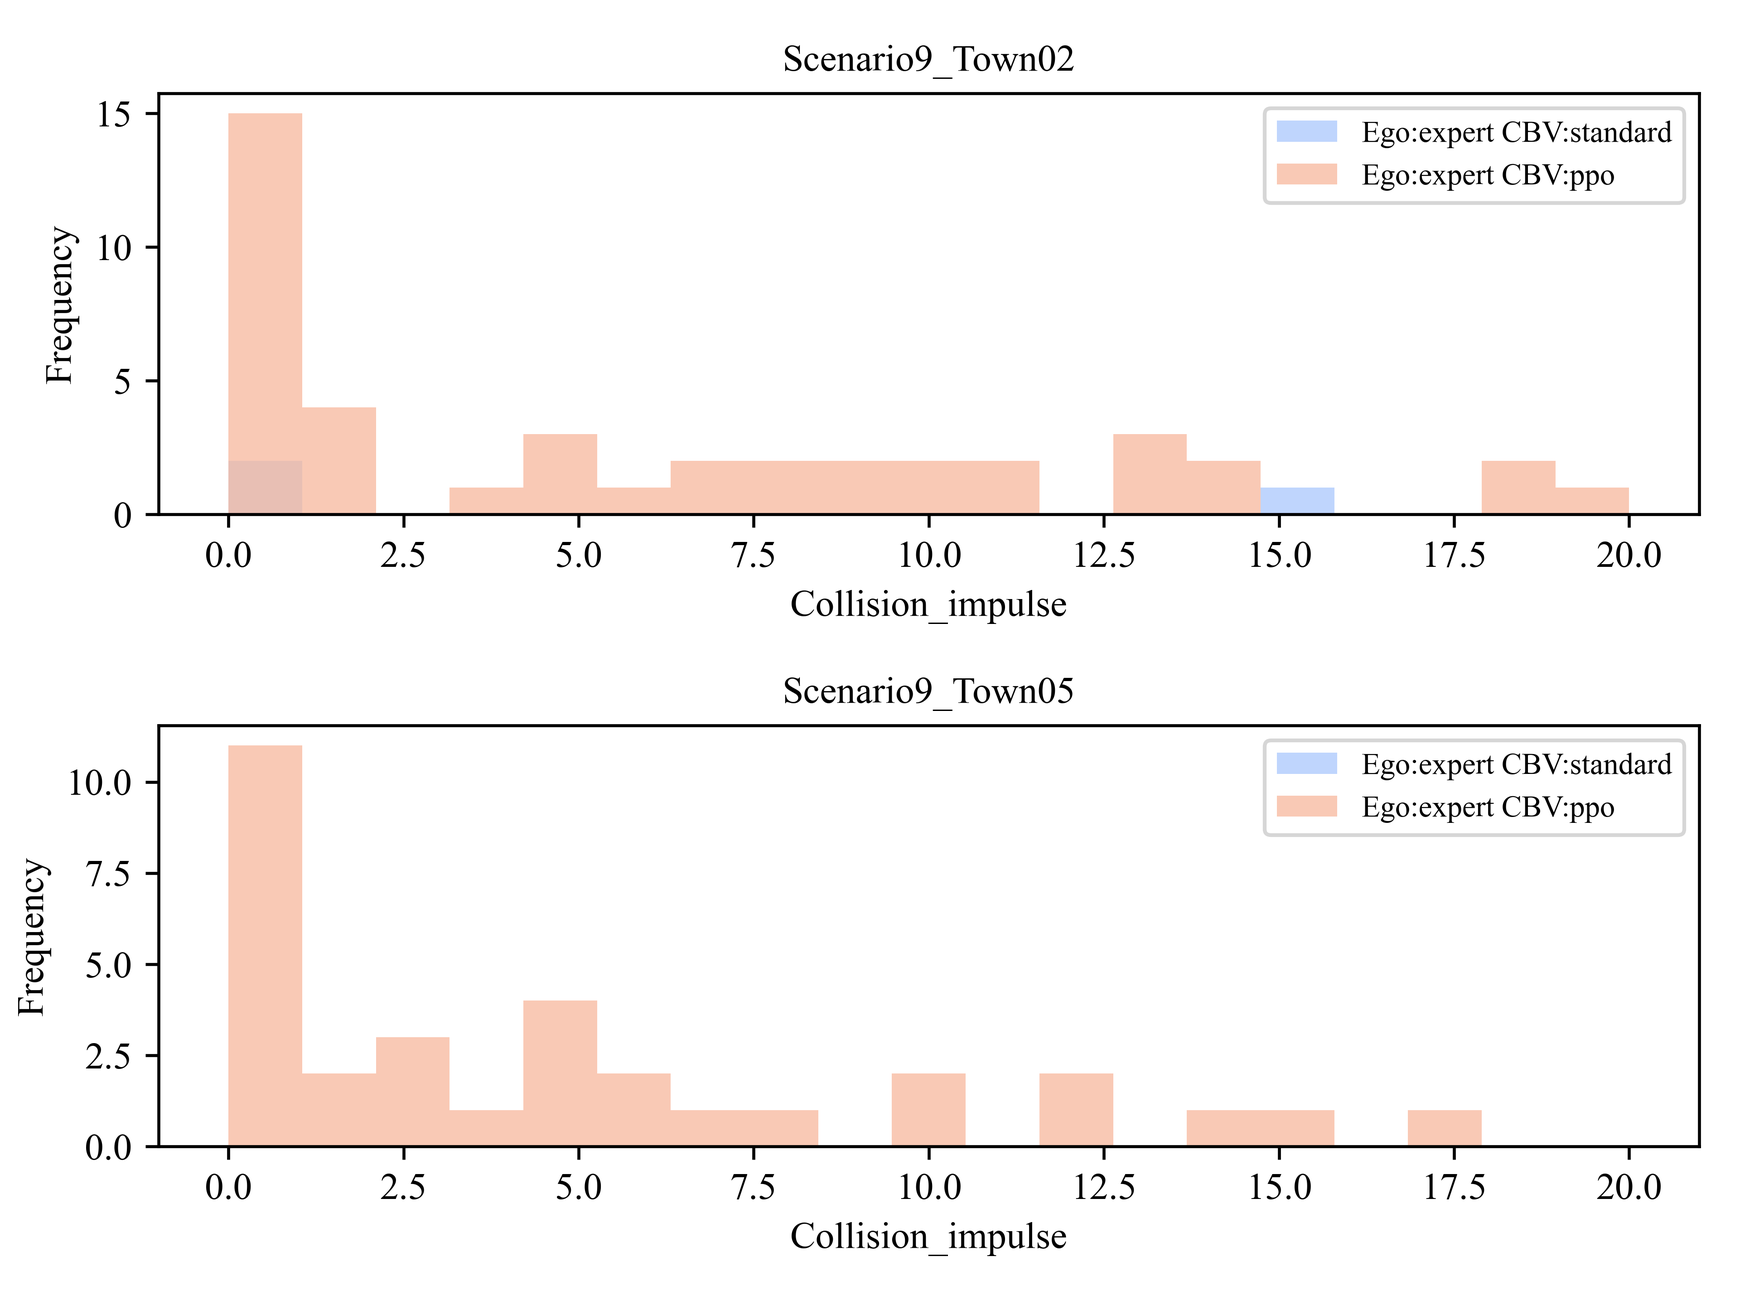
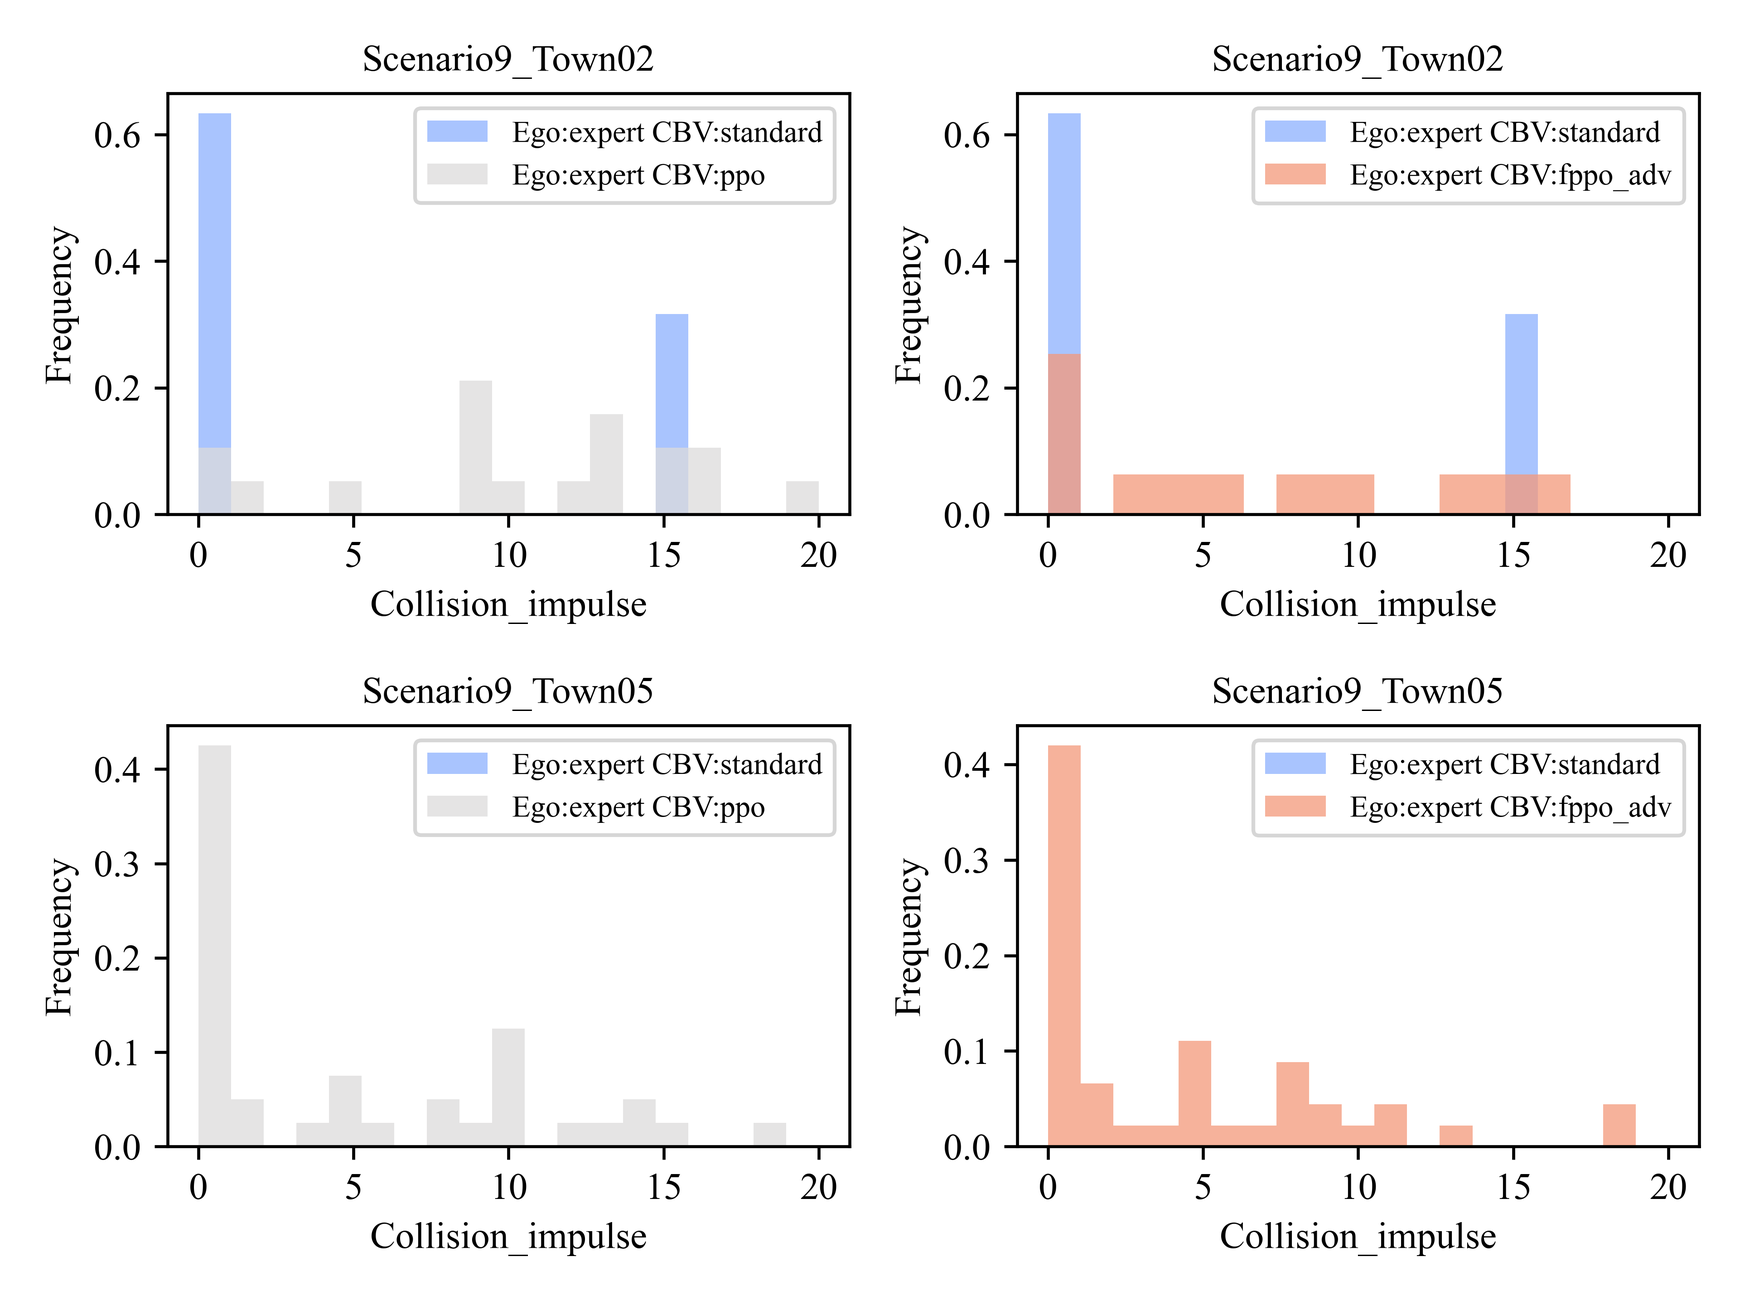
simplify evaluation code

diff --git a/eval_analysis/plot_data/plot_evaluation_result.py b/eval_analysis/plot_data/plot_evaluation_result.py
@@ -42,13 +42,15 @@ def draw_data(All_data, data_name, ROOT_DIR, bins):
         fig, axs = plt.subplots(nrows=num_scenarios, ncols=max(num_algorithm-1, 1), squeeze=False)
         # plot the baseline
         for algorithm, scenario in datas.items():
-            baseline_name = algorithm if algorithm.endswith('standard') else None
+            if algorithm.endswith('standard'):
+                baseline_name = algorithm
+                break
         # pop out the baseline data
         baseline = datas.pop(baseline_name, None) if baseline_name is not None else None
         for i in range(max(num_algorithm-1, 1)):
             for row, (scenario_name, data) in enumerate(baseline.items()):
                 # sns.kdeplot(data, color=color_list[0], ax=axs[row, i], alpha=0.8, label=baseline_name, fill=True, linewidth=1)
-                axs[row, i].hist(data, density=False, bins=bins, alpha=0.75, label=baseline_name, color=color_list[0])
+                axs[row, i].hist(data, density=True, bins=bins, alpha=0.75, label=baseline_name, color=color_list[0])
                 axs[row, i].set_title(scenario_name, fontsize=10)
                 axs[row, i].set_xlabel(f'{data_name}')
                 axs[row, i].set_ylabel('Frequency')
@@ -58,7 +60,7 @@ def draw_data(All_data, data_name, ROOT_DIR, bins):
         for i, (algorithm, scenario) in enumerate(datas.items()):
             for row, (scenario_name, data) in enumerate(scenario.items()):
                 # sns.kdeplot(data, color=color_list[i+1], ax=axs[row, i], alpha=0.7, label=algorithm, fill=True, linewidth=1)
-                axs[row, i].hist(data, density=False, bins=bins, alpha=0.75, label=algorithm, color=color_list[i+1])
+                axs[row, i].hist(data, density=True, bins=bins, alpha=0.75, label=algorithm, color=color_list[i+1])
                 axs[row, i].legend(fontsize=8, loc='best')
 
         plt.tight_layout()
@@ -81,7 +83,8 @@ def main(args):
     ROOT_DIR = args.ROOT_DIR
     base_dir = osp.join(ROOT_DIR, 'eval_analysis/processed_data')
     algorithm_files = os.listdir(base_dir)
-    PET_data = {}
+    PET_all_data = {}
+    PET_avoidable_data = {}
     ego_min_dis_data = {}
     near_rate = {}
     BVs_forward_speed_data = {}
@@ -104,7 +107,8 @@ def main(args):
                 # the specific ego and CBV method
                 algorithm_title = f"Ego:{ego} CBV:{cbv}"
 
-                PET_data[algorithm_title] = {}
+                PET_all_data[algorithm_title] = {}
+                PET_avoidable_data[algorithm_title] = {}
                 ego_min_dis_data[algorithm_title] = {}
                 near_rate[algorithm_title] = {}
                 BVs_forward_speed_data[algorithm_title] = {}
@@ -120,9 +124,12 @@ def main(args):
                         files = os.listdir(scenario_map_path)
                         for file in files:
                             # processing PET data
-                            if file == 'PET.npy' and 'PET' in args.data:
+                            if file == 'PET.pkl' and 'PET' in args.data:
                                 file_path = os.path.join(scenario_map_path, file)
-                                PET_data[algorithm_title][scenario_map] = np.load(file_path)
+                                with open(file_path, 'rb') as pickle_file:
+                                    all_pet_data = pickle.load(pickle_file)
+                                PET_all_data[algorithm_title][scenario_map] = all_pet_data['all_pet']
+                                PET_avoidable_data[algorithm_title][scenario_map] = all_pet_data['avoidable_pet']
                             if file == 'Ego_min_dis.pkl' and 'Ego_min_dis' in args.data:
                                 file_path = os.path.join(scenario_map_path, file)
                                 with open(file_path, 'rb') as pickle_file:
@@ -151,7 +158,8 @@ def main(args):
     # draw PET data
     if 'PET' in args.data:
         PET_bins = np.linspace(0, 5, 30)
-        draw_data(PET_data, 'Post encroachment time', ROOT_DIR, bins=PET_bins)
+        draw_data(PET_all_data, 'Post encroachment time', ROOT_DIR, bins=PET_bins)
+        draw_data(PET_avoidable_data, 'Post encroachment time (avoidable)', ROOT_DIR, bins=PET_bins)
     # draw Ego min distance
     if 'Ego_min_dis' in args.data:
         plot_metric(near_rate, 'near_rate')

diff --git a/safebench/carla_runner.py b/safebench/carla_runner.py
@@ -74,7 +74,7 @@ class CarlaRunner:
             'mode': self.mode,  # the mode of the script
             'eval_mode': self.eval_mode,  # the mode of the evaluation
             'search_radius': 25,  # the default search radius
-            'traffic_intensity': 0.6,  # the default traffic intensity
+            'traffic_intensity': 0.3 if self.mode == 'eval' else 0.6,  # the default traffic intensity
             'goal_point_radius': 2,  # the default goal point radius
             'auto_ego': scenario_config['auto_ego'],
             'viz_route': self.viz_route,  # whether to visualize the route
@@ -151,9 +151,12 @@ class CarlaRunner:
             self.feasibility_data_path = feasibility_config['data_path']
             self.logger.save_config(feasibility_config)
         elif self.mode == 'eval':
-            self.save_freq = scenario_config['save_freq']
-            self.logger.log('>> Evaluation Mode, skip config saving', 'yellow')
-            self.logger.create_eval_dir(load_existing_results=True, scenario_id=self.scenario_config['scenario_id'])
+            if self.eval_mode == 'analysis':
+                self.save_freq = scenario_config['save_freq']
+                self.logger.log('>> Evaluation Mode, analyzing result', 'yellow')
+                self.logger.create_eval_dir(load_existing_results=True, scenario_id=self.scenario_config['scenario_id'])
+            else:
+                self.logger.log('>> Evaluation Mode, rendering result', 'yellow')
         else:
             raise NotImplementedError(f"Unsupported mode: {self.mode}.")
 
@@ -208,7 +211,7 @@ class CarlaRunner:
         self.logger.log(">> Initializing pygame birdeye renderer")
         pygame.init()
         flag = pygame.HWSURFACE | pygame.DOUBLEBUF
-        flag = flag | pygame.HIDDEN
+        # flag = flag | pygame.HIDDEN  # not showing the pygame window on the screen
 
         # [bird-eye view, Lidar, front view] or [bird-eye view, front view]
         if self.env_params['disable_lidar']:
@@ -370,14 +373,14 @@ class CarlaRunner:
                 self.logger.log('\t Env id ' + str(s_i) + ': ' + str(np.mean(score_list[s_i])), 'yellow')
 
             # calculate evaluation results
-            score_function = get_route_scores
-            all_running_results = self.logger.add_eval_results(map_name=self.current_map, records=self.env.running_results)  # running results is growing as the evaluation goes
-            all_scores = score_function(all_running_results, self.use_feasibility, self.scenario_agent_learnable)  # the current statistical scores from the start to the current evaluation scenario
-            self.logger.add_eval_results(map_name=self.current_map, scores=all_scores)
-            self.logger.print_eval_results(map_name=self.current_map)  # the finial eval results represent the statistical score during the whole process of evaluation
-            if len(self.env.running_results) % self.save_freq == 0:
-                self.logger.save_eval_results(map_name=self.current_map)
-        self.logger.save_eval_results(map_name=self.current_map)
+            if self.eval_mode == 'analysis':
+                score_function = get_route_scores
+                all_running_results = self.logger.add_eval_results(map_name=self.current_map, records=self.env.running_results)  # running results is growing as the evaluation goes
+                all_scores = score_function(all_running_results, self.use_feasibility, self.scenario_agent_learnable)  # the current statistical scores from the start to the current evaluation scenario
+                self.logger.add_eval_results(map_name=self.current_map, scores=all_scores)
+                self.logger.print_eval_results(map_name=self.current_map)  # the finial eval results represent the statistical score during the whole process of evaluation
+                if len(self.env.running_results) % self.save_freq == 0 or len(data_loader) == 0:
+                    self.logger.save_eval_results(map_name=self.current_map)
 
     def collect_feasibility_data(self, data_loader, file_name):
         # general buffer for both agent and scenario

diff --git a/safebench/gym_carla/envs/carla_env.py b/safebench/gym_carla/envs/carla_env.py
@@ -27,7 +27,7 @@ from safebench.gym_carla.envs.misc import (
 from safebench.agent.agent_utils.explainability_utils import get_masked_viz_3rd_person
 from safebench.gym_carla.envs.utils import get_CBV_candidates, get_nearby_vehicles, find_closest_vehicle, \
     update_goal_CBV_dis, get_CBV_ego_reward, calculate_abs_velocity, get_distance_across_centers, \
-    process_ego_action, get_ego_min_dis, get_feasibility_Qs_Vs, get_BVs_record, check_interaction, check_CBV_BV_stuck, draw_trajectory
+    process_ego_action, get_ego_min_dis, get_feasibility_Qs_Vs, check_interaction, check_CBV_BV_stuck, draw_trajectory, get_records
 from safebench.scenario.scenario_definition.route_scenario import RouteScenario
 from safebench.scenario.scenario_manager.scenario_manager import ScenarioManager
 from safebench.scenario.scenario_manager.carla_data_provider import CarlaDataProvider
@@ -118,7 +118,7 @@ class CarlaEnv(gym.Env):
         self.obs_size = int(self.obs_range / self.lidar_bin)
 
     def _create_sensors(self):
-        if self.mode == 'eval':
+        if self.eval_mode == 'render':
             if not self.disable_lidar:
                 # lidar sensor
                 self.lidar_trans = carla.Transform(carla.Location(x=0.0, z=self.lidar_height))
@@ -279,7 +279,7 @@ class CarlaEnv(gym.Env):
         return self._get_obs(), self._get_info(next_info=False, reset=True)
 
     def _attach_sensor(self):
-        if self.mode == 'eval':
+        if self.eval_mode == 'render':
             self_weakref = weakref.ref(self)  # weak reference of self
             # Add lidar sensor
             if not self.disable_lidar:
@@ -312,7 +312,7 @@ class CarlaEnv(gym.Env):
                 array = array[:, :, 2]  # from PlanT
                 ego_self.sem_img = array
 
-    def visualize_ego_route_CBV(self):
+    def visualize_actors(self):
         # visualize the past trajectory of all the actor on the map
         if self.eval_mode == 'render':
             draw_trajectory(self.world, self.ego_vehicle, self.CBVs, self.CBV_reach_goal, self.time_step)
@@ -381,9 +381,9 @@ class CarlaEnv(gym.Env):
             self.ego_nearby_vehicles = get_nearby_vehicles(self.ego_vehicle, self.search_radius)
 
         extra_status = {}
-        if self.eval_mode == 'store_data':
+        if self.eval_mode == 'analysis':
             # update the BVs record when evaluating
-            extra_status.update(get_BVs_record(self.ego_vehicle, self.CBVs_collision, self.ego_nearby_vehicles, self.search_radius))
+            extra_status.update(get_records(self.ego_vehicle, self.CBVs_collision, self.ego_nearby_vehicles, self.search_radius))
         if self.use_feasibility:
             feasibility_Q_V = get_feasibility_Qs_Vs(self.feasibility_policy, self.feasibility_dict['ego_obs'], self.feasibility_dict['ego_action'])
             self.feasibility_dict.update(feasibility_Q_V)
@@ -405,7 +405,7 @@ class CarlaEnv(gym.Env):
 
         updated_CBVs_info = self._get_info(next_info=False)  # info of new CBV
 
-        self.visualize_ego_route_CBV()  # visualize the controlled bv and the waypoints in clients side after tick
+        self.visualize_actors()  # visualize the controlled bv and the waypoints in clients side after tick
 
         # Update timesteps
         self.time_step += 1

diff --git a/eval_analysis/process_data/PET.py b/eval_analysis/process_data/PET.py
@@ -11,6 +11,7 @@ import joblib
 from tqdm import tqdm
 import os.path as osp
 import numpy as np
+import pickle
 
 
 def find_nearest(array, value):
@@ -89,11 +90,56 @@ def get_sequence_pet(sequence):
     return pet_list
 
 
+def get_sequence_pet_avoidable(sequence):
+    pet_list = []
+    pet_dict = {}
+
+    x_max, x_min = max(sequence[0]['ego_loc'][0], sequence[-1]['ego_loc'][0]), min(sequence[0]['ego_loc'][0], sequence[-1]['ego_loc'][0])
+    y_max, y_min = max(sequence[0]['ego_loc'][1], sequence[-1]['ego_loc'][1]), min(sequence[0]['ego_loc'][1], sequence[-1]['ego_loc'][1])
+
+    x_list = np.linspace(x_min - 5, x_max + 5, num=2*(int(x_max - x_min)+10))
+    y_list = np.linspace(y_min - 5, y_max + 5, num=2*(int(x_max - x_min)+10))
+
+    for step in sequence:
+        if step['feasibility_V'] < 0:
+            # add ego
+            occupied_index_list = get_occupied_box_index_from_obs(step['ego_loc'], x_list, y_list)
+            for occupied_index in occupied_index_list:
+                if str(occupied_index) in pet_dict:
+                    pet_dict[str(occupied_index)].append([step['current_game_time'], 'ego'])
+                else:
+                    pet_dict[str(occupied_index)] = [[step['current_game_time'], 'ego']]
+            # add all the bv
+            for BV_index, BV_ego_dis in enumerate(step['BVs_ego_dis']):
+                occupied_index_list = get_occupied_box_index_from_obs(
+                    step['BVs_loc'][BV_index], x_list, y_list,
+                )
+                for occupied_index in occupied_index_list:
+                    if str(occupied_index) in pet_dict:
+                        pet_dict[str(occupied_index)].append([step['current_game_time'], step['BVs_id'][BV_index]])
+                    else:
+                        pet_dict[str(occupied_index)] = [[step['current_game_time'], step['BVs_id'][BV_index]]]
+
+    for time_id_list in pet_dict.values():
+        pet_tmp = calculate_position_pet_list(time_id_list)
+        if pet_tmp < 10:
+            pet_list.append(pet_tmp)
+
+    return pet_list
+
+
 def process_pet_from_one_pkl(pkl_path, save_folder):
-    pet_list_all_experiments = []
+    pet = {}
+    pet_list_all = []
+    pet_list_avoidable = []
     data = joblib.load(pkl_path)
     for sequence in tqdm(data.values()):
-        pet_list_all_experiments.extend(get_sequence_pet(sequence))
-    # save the PET data to npy
-    np.save(osp.join(save_folder, "PET.npy"), pet_list_all_experiments)
+        pet_list_all.extend(get_sequence_pet(sequence))
+        pet_list_avoidable.extend(get_sequence_pet_avoidable(sequence))
+    # save the PET data
+    pet['all_pet'] = pet_list_all
+    pet['avoidable_pet'] = pet_list_avoidable
+    # save BVs forward speed
+    with open(osp.join(save_folder, "PET.pkl"), 'wb') as pickle_file:
+        pickle.dump(pet, pickle_file)
 

diff --git a/safebench/gym_carla/envs/utils.py b/safebench/gym_carla/envs/utils.py
@@ -84,8 +84,21 @@ def get_feasibility_Qs_Vs(feasibility_policy, ego_obs, ego_action):
     }
 
 
-def get_BVs_record(ego, CBVs_collision, ego_nearby_vehicles, search_radius=25, bbox=True, BV_num=3):
-    BVs_record = {
+def get_records(ego, CBVs_collision, ego_nearby_vehicles, search_radius=25, bbox=True, BV_num=3):
+    # ego's info
+    ego_vel = CarlaDataProvider.get_velocity(ego)
+    ego_tra = CarlaDataProvider.get_transform(ego)
+    ego_loc = ego_tra.location
+    ego_yaw = ego_tra.rotation.yaw / 180 * np.pi
+    ego_acc = ego.get_acceleration()
+    ego_extent = ego.bounding_box.extent
+    # total record
+    records = {
+        'ego_vel': [ego_vel.x, ego_vel.y],
+        'ego_loc': [ego_loc.x, ego_loc.y],
+        'ego_yaw': ego_yaw,
+        'ego_extent': [ego_extent.x * 2., ego_extent.y * 2.],
+        'ego_acc': [ego_acc.x, ego_acc.y],
         'CBVs_collision': {},
         'BVs_loc': [],
         'BVs_vel': [],
@@ -95,6 +108,7 @@ def get_BVs_record(ego, CBVs_collision, ego_nearby_vehicles, search_radius=25, b
         'BVs_id': [],
         'ego_min_dis': search_radius
     }
+    # CBV's info
     if len(CBVs_collision) > 0:
         collision = {}
         for CBV_id, collision_event in CBVs_collision.items():
@@ -106,9 +120,9 @@ def get_BVs_record(ego, CBVs_collision, ego_nearby_vehicles, search_radius=25, b
                 }
             else:
                 collision[CBV_id] = None
-        BVs_record['CBVs_collision'] = collision
+        records['CBVs_collision'] = collision
 
-    # BVs info from ego's view
+    # BVs info
     if ego_nearby_vehicles:
         BVs_ego_dis = []
         BVs_id = []
@@ -134,15 +148,15 @@ def get_BVs_record(ego, CBVs_collision, ego_nearby_vehicles, search_radius=25, b
         BVs_abs_loc = np.array(BVs_abs_loc, dtype=np.float32)
         BVs_extent = np.array(BVs_extent, dtype=np.float32)
         BVs_vel = np.array(BVs_vel, dtype=np.float32)
-        BVs_record['BVs_loc'] = BVs_abs_loc
-        BVs_record['BVs_vel'] = BVs_vel
-        BVs_record['BVs_yaw'] = BVs_yaw
-        BVs_record['BVs_extent'] = BVs_extent
-        BVs_record['BVs_ego_dis'] = BVs_ego_dis
-        BVs_record['BVs_id'] = BVs_id
-        BVs_record['ego_min_dis'] = min(BVs_ego_dis)
+        records['BVs_loc'] = BVs_abs_loc
+        records['BVs_vel'] = BVs_vel
+        records['BVs_yaw'] = BVs_yaw
+        records['BVs_extent'] = BVs_extent
+        records['BVs_ego_dis'] = BVs_ego_dis
+        records['BVs_id'] = BVs_id
+        records['ego_min_dis'] = min(BVs_ego_dis)
 
-    return BVs_record
+    return records
 
 
 def draw_trajectory(world, ego, CBVs, CBV_reach_goal, time, life_time=4):

diff --git a/scripts/run.py b/scripts/run.py
@@ -29,7 +29,7 @@ if __name__ == '__main__':
     parser.add_argument('--viz_route', '-vr', action='store_true')
     parser.add_argument('--use_feasibility', '-fe', type=bool, default=True)
     parser.add_argument('--mode', '-m', type=str, default='eval', choices=['train_agent', 'train_scenario', 'eval', 'collect_feasibility_data'])
-    parser.add_argument('--eval_mode', '-em', type=str, default='store_data', choices=['store_data', 'render'])
+    parser.add_argument('--eval_mode', '-em', type=str, default='analysis', choices=['analysis', 'render'])
     parser.add_argument('--agent_cfg', nargs='*', type=str, default='expert.yaml')
     parser.add_argument('--scenario_cfg', nargs='*', type=str, default='standard_eval.yaml')
     parser.add_argument('--feasibility_cfg', nargs='*', type=str, default='HJR.yaml')
@@ -77,7 +77,7 @@ if __name__ == '__main__':
             # only save video when the eval mode is 'render'
             if args.eval_mode != 'render':
                 args.save_video = False
-            if args.eval_mode != 'store_data':
+            if args.eval_mode != 'analysis':
                 args.use_feasibility = False
 
             # main entry with a selected mode

diff --git a/safebench/scenario/scenario_definition/route_scenario.py b/safebench/scenario/scenario_definition/route_scenario.py
@@ -174,14 +174,7 @@ class RouteScenario():
                 self.unactivated_actors.remove(actor)
 
     def get_running_status(self, running_record):
-        ego_vel = CarlaDataProvider.get_velocity(self.ego_vehicle)
-        ego_loc = CarlaDataProvider.get_transform(self.ego_vehicle).location
-        ego_acc = self.ego_vehicle.get_acceleration()
         running_status = {
-            'ego_vel': [ego_vel.x, ego_vel.y],
-            'ego_acc': [ego_acc.x, ego_acc.y],
-            'ego_loc': [ego_loc.x, ego_loc.y],
-            'ego_yaw': CarlaDataProvider.get_transform(self.ego_vehicle).rotation.yaw,
             'current_game_time': GameTime.get_time()
         }
 

diff --git a/safebench/gym_carla/env_wrapper.py b/safebench/gym_carla/env_wrapper.py
@@ -153,7 +153,7 @@ class VectorWrapper():
                 if done:
                     self.finished_env[e_i] = True
                     # save running results according to the data_id of scenario
-                    if self.mode == 'eval':
+                    if self.eval_mode == 'analysis':
                         if current_env.config.data_id in self.running_results.keys():
                             self.logger.log('Scenario with data_id {} is duplicated'.format(current_env.config.data_id))
                         # the running results contain every data id (one specific scenario) running status at each time step
